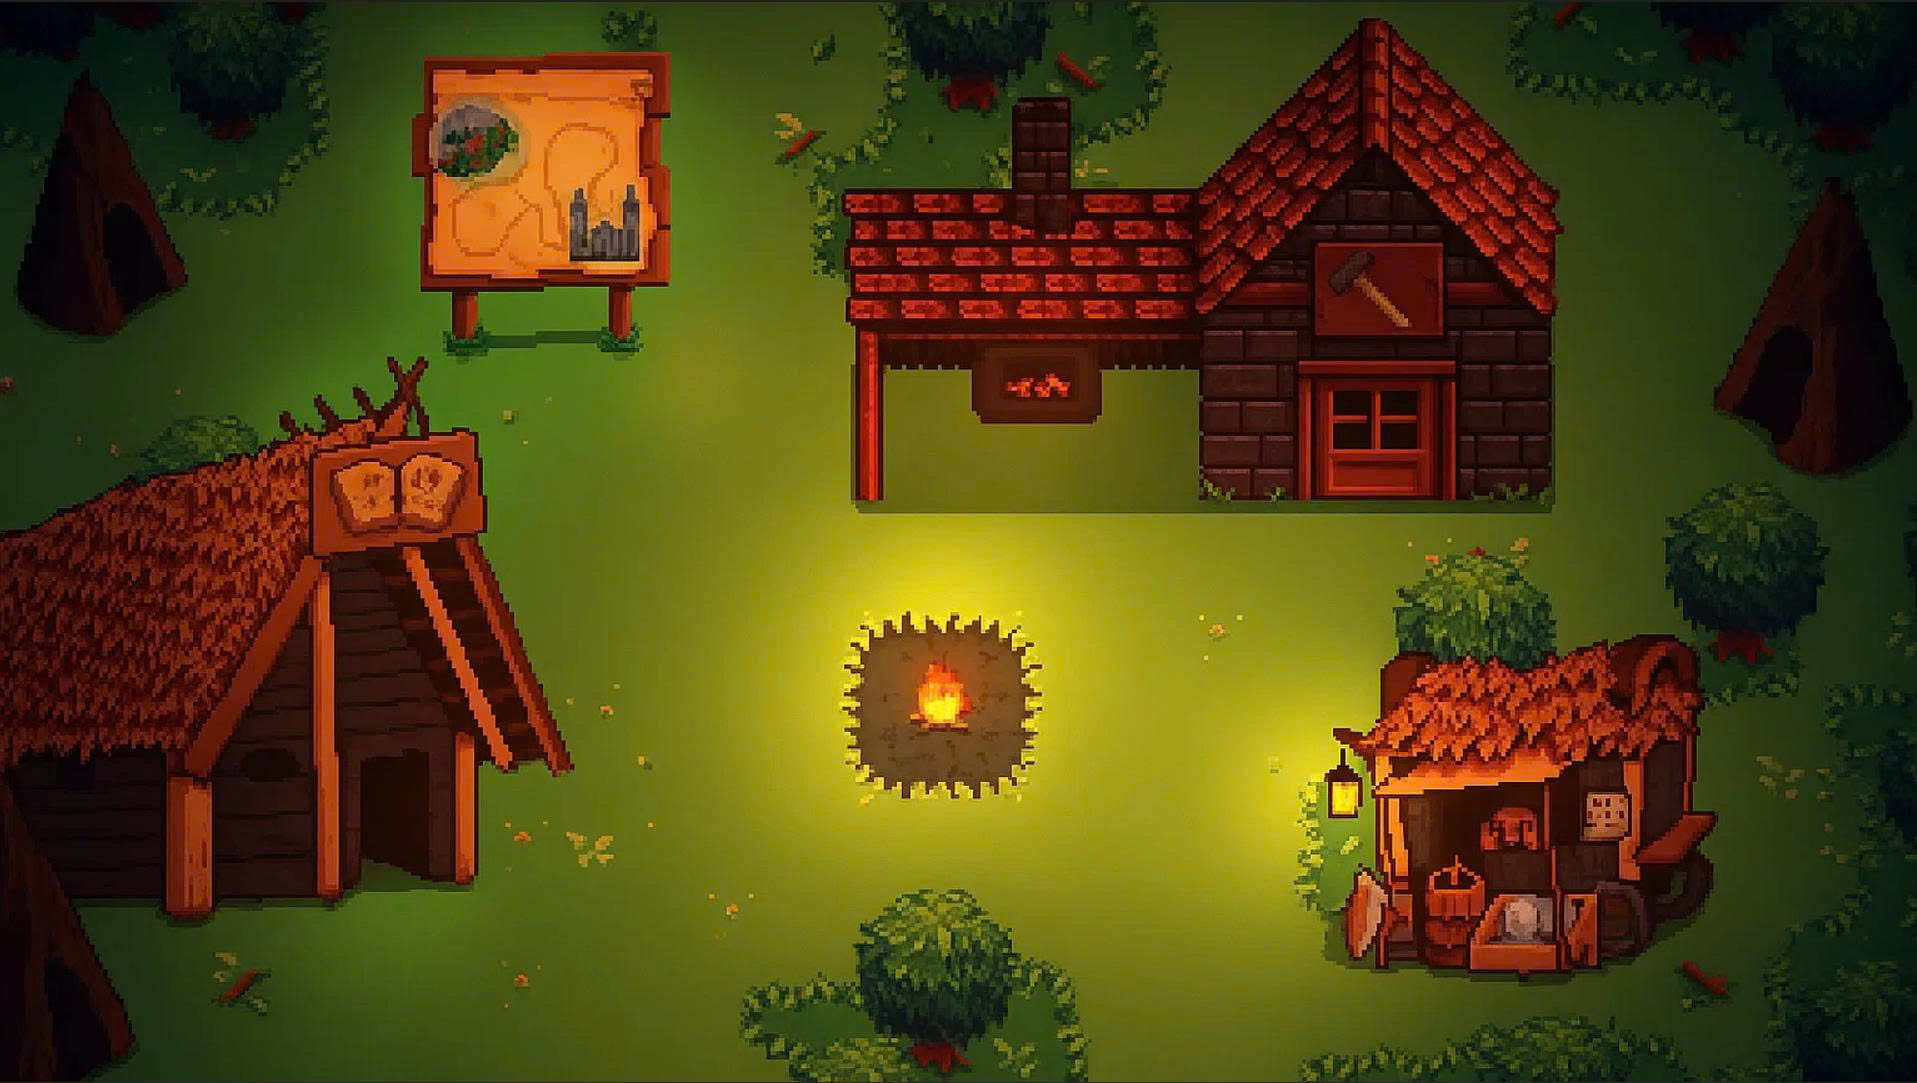
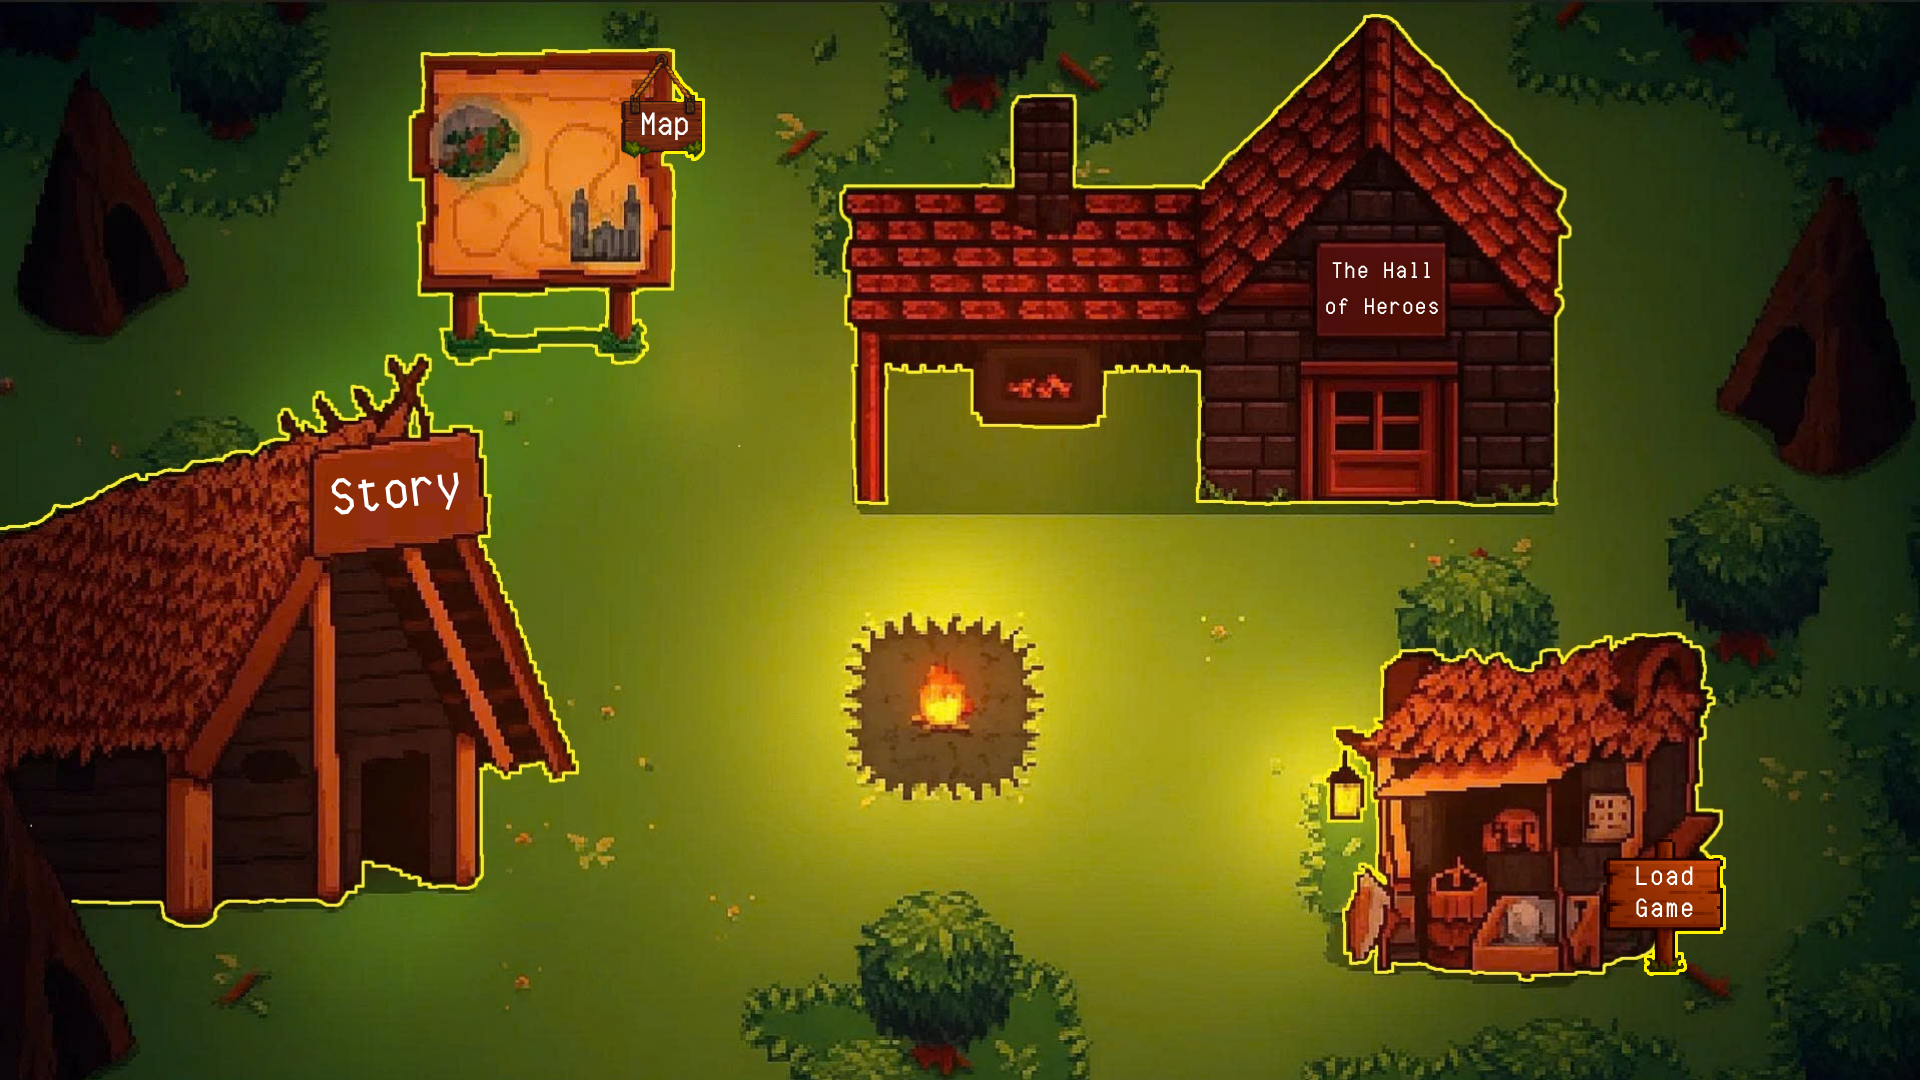
Add Victory and Defeated

diff --git a/Tower-Defense-HCMUS-K24/src/SrcGameStates/Defeat.cpp b/Tower-Defense-HCMUS-K24/src/SrcGameStates/Defeat.cpp
@@ -32,15 +32,15 @@ void Defeat::onEnter(World& world) {
     //bg
     EntityID background = world.createEntity();
     registerEntity(background);
-    const string bgPath = "assets/Bg/DefeatBg.jpg";
-    SpriteComponent spriteComp0(bgPath, { 0.f, 0.f }, { 1.78f, 1.6f });
+    const string bgPath = "assets/Bg/DefeatBg.png";
+    SpriteComponent spriteComp0(bgPath, { 0.f, 0.f }, { 1.f, 1.f });
     world.addComponent(background, spriteComp0);
 
     //button
     EntityID homeButton = world.createEntity();
     registerEntity(homeButton);
     const string buttonPath1 = "assets/Icon/Home/B_Button16.png";
-    SpriteComponent spriteComp1(buttonPath1, { 200.f + 625, 700.f }, { 5.f, 5.f });
+    SpriteComponent spriteComp1(buttonPath1, { 681.f, 655.f }, { 10.f, 10.f});
     spriteComp1.onClick = [](EntityID entityId, World& world)
         {
             std::cout << "[Home Button] Clicked\n";
@@ -55,7 +55,7 @@ void Defeat::onEnter(World& world) {
     EntityID retryButton = world.createEntity();
     registerEntity(retryButton);
     const string buttonPath2 = "assets/Icon/Restart/B_Button70.png";
-    SpriteComponent spriteComp2(buttonPath2, { 345.f + 625, 700.f }, { 5.f, 5.f });
+    SpriteComponent spriteComp2(buttonPath2, { 1043.f, 655.f }, { 10.f, 10.f});
     spriteComp2.onClick = [](EntityID entityId, World& world)
         {
             std::cout << "[Retry Button] Clicked\n";
@@ -66,20 +66,6 @@ void Defeat::onEnter(World& world) {
         };
     world.addComponent(retryButton, soundComp);
     world.addComponent(retryButton, spriteComp2);
-
-    //skull
-    EntityID skull = world.createEntity();
-    registerEntity(skull);
-    const string skullPath = "assets/Icon/Skull.png";
-    SpriteComponent spriteComp3(skullPath, { 720.f, 150.f }, { 1.1f, 1.2f });
-    world.addComponent(skull, spriteComp3);
-
-    //text
-    EntityID text = world.createEntity();
-    registerEntity(text);
-    const string str = "DEFEATED";
-    TextComponent textComp(str, 100, fontPath, textColor, { 1920 / 2 - 15, 600 }, false, outlineColor, thickness);
-    world.addComponent(text, textComp);
 
     //victory bgm
     EntityID bgm = world.createEntity();

diff --git a/Tower-Defense-HCMUS-K24/src/SrcGameStates/Victory.cpp b/Tower-Defense-HCMUS-K24/src/SrcGameStates/Victory.cpp
@@ -40,7 +40,7 @@ void Victory::onEnter(World& world) {
     EntityID homeButton = world.createEntity();
     registerEntity(homeButton);
     const string buttonPath1 = "assets/Icon/Home/B_Button17.png";
-    SpriteComponent spriteComp1(buttonPath1, { 200.f, 700.f }, { 5.f, 5.f });
+    SpriteComponent spriteComp1(buttonPath1, { 681.f, 655.f }, { 10.f, 10.f});
     spriteComp1.onClick = [](EntityID entityId, World& world)
         {
             std::cout << "[Home Button] Clicked\n";
@@ -55,7 +55,7 @@ void Victory::onEnter(World& world) {
     EntityID retryButton = world.createEntity();
     registerEntity(retryButton);
     const string buttonPath2 = "assets/Icon/Restart/B_Button71.png";
-    SpriteComponent spriteComp2(buttonPath2, { 345.f, 700.f }, { 5.f, 5.f });
+    SpriteComponent spriteComp2(buttonPath2, { 1043.f, 655.f }, { 10.f, 10.f});
     spriteComp2.onClick = [](EntityID entityId, World& world)
         {
             std::cout << "[Retry Button] Clicked\n";
@@ -66,20 +66,6 @@ void Victory::onEnter(World& world) {
         };
     world.addComponent(retryButton, soundComp);
     world.addComponent(retryButton, spriteComp2);
-
-    //trophy
-    EntityID trophy = world.createEntity();
-    registerEntity(trophy);
-    const string trophyPath = "assets/Icon/trophy.png";
-    SpriteComponent spriteComp3(trophyPath, { 100.f, 200.f }, { 1.1f, 1.2f });
-    world.addComponent(trophy, spriteComp3);
-
-    //text
-    EntityID text = world.createEntity();
-    registerEntity(text);
-    const string str = "YOU WIN!";
-    TextComponent textComp(str, 100, fontPath, textColor, { 320, 600 }, false, outlineColor, thickness);
-    world.addComponent(text, textComp);
 
     //victory bgm
     EntityID bgm = world.createEntity();
